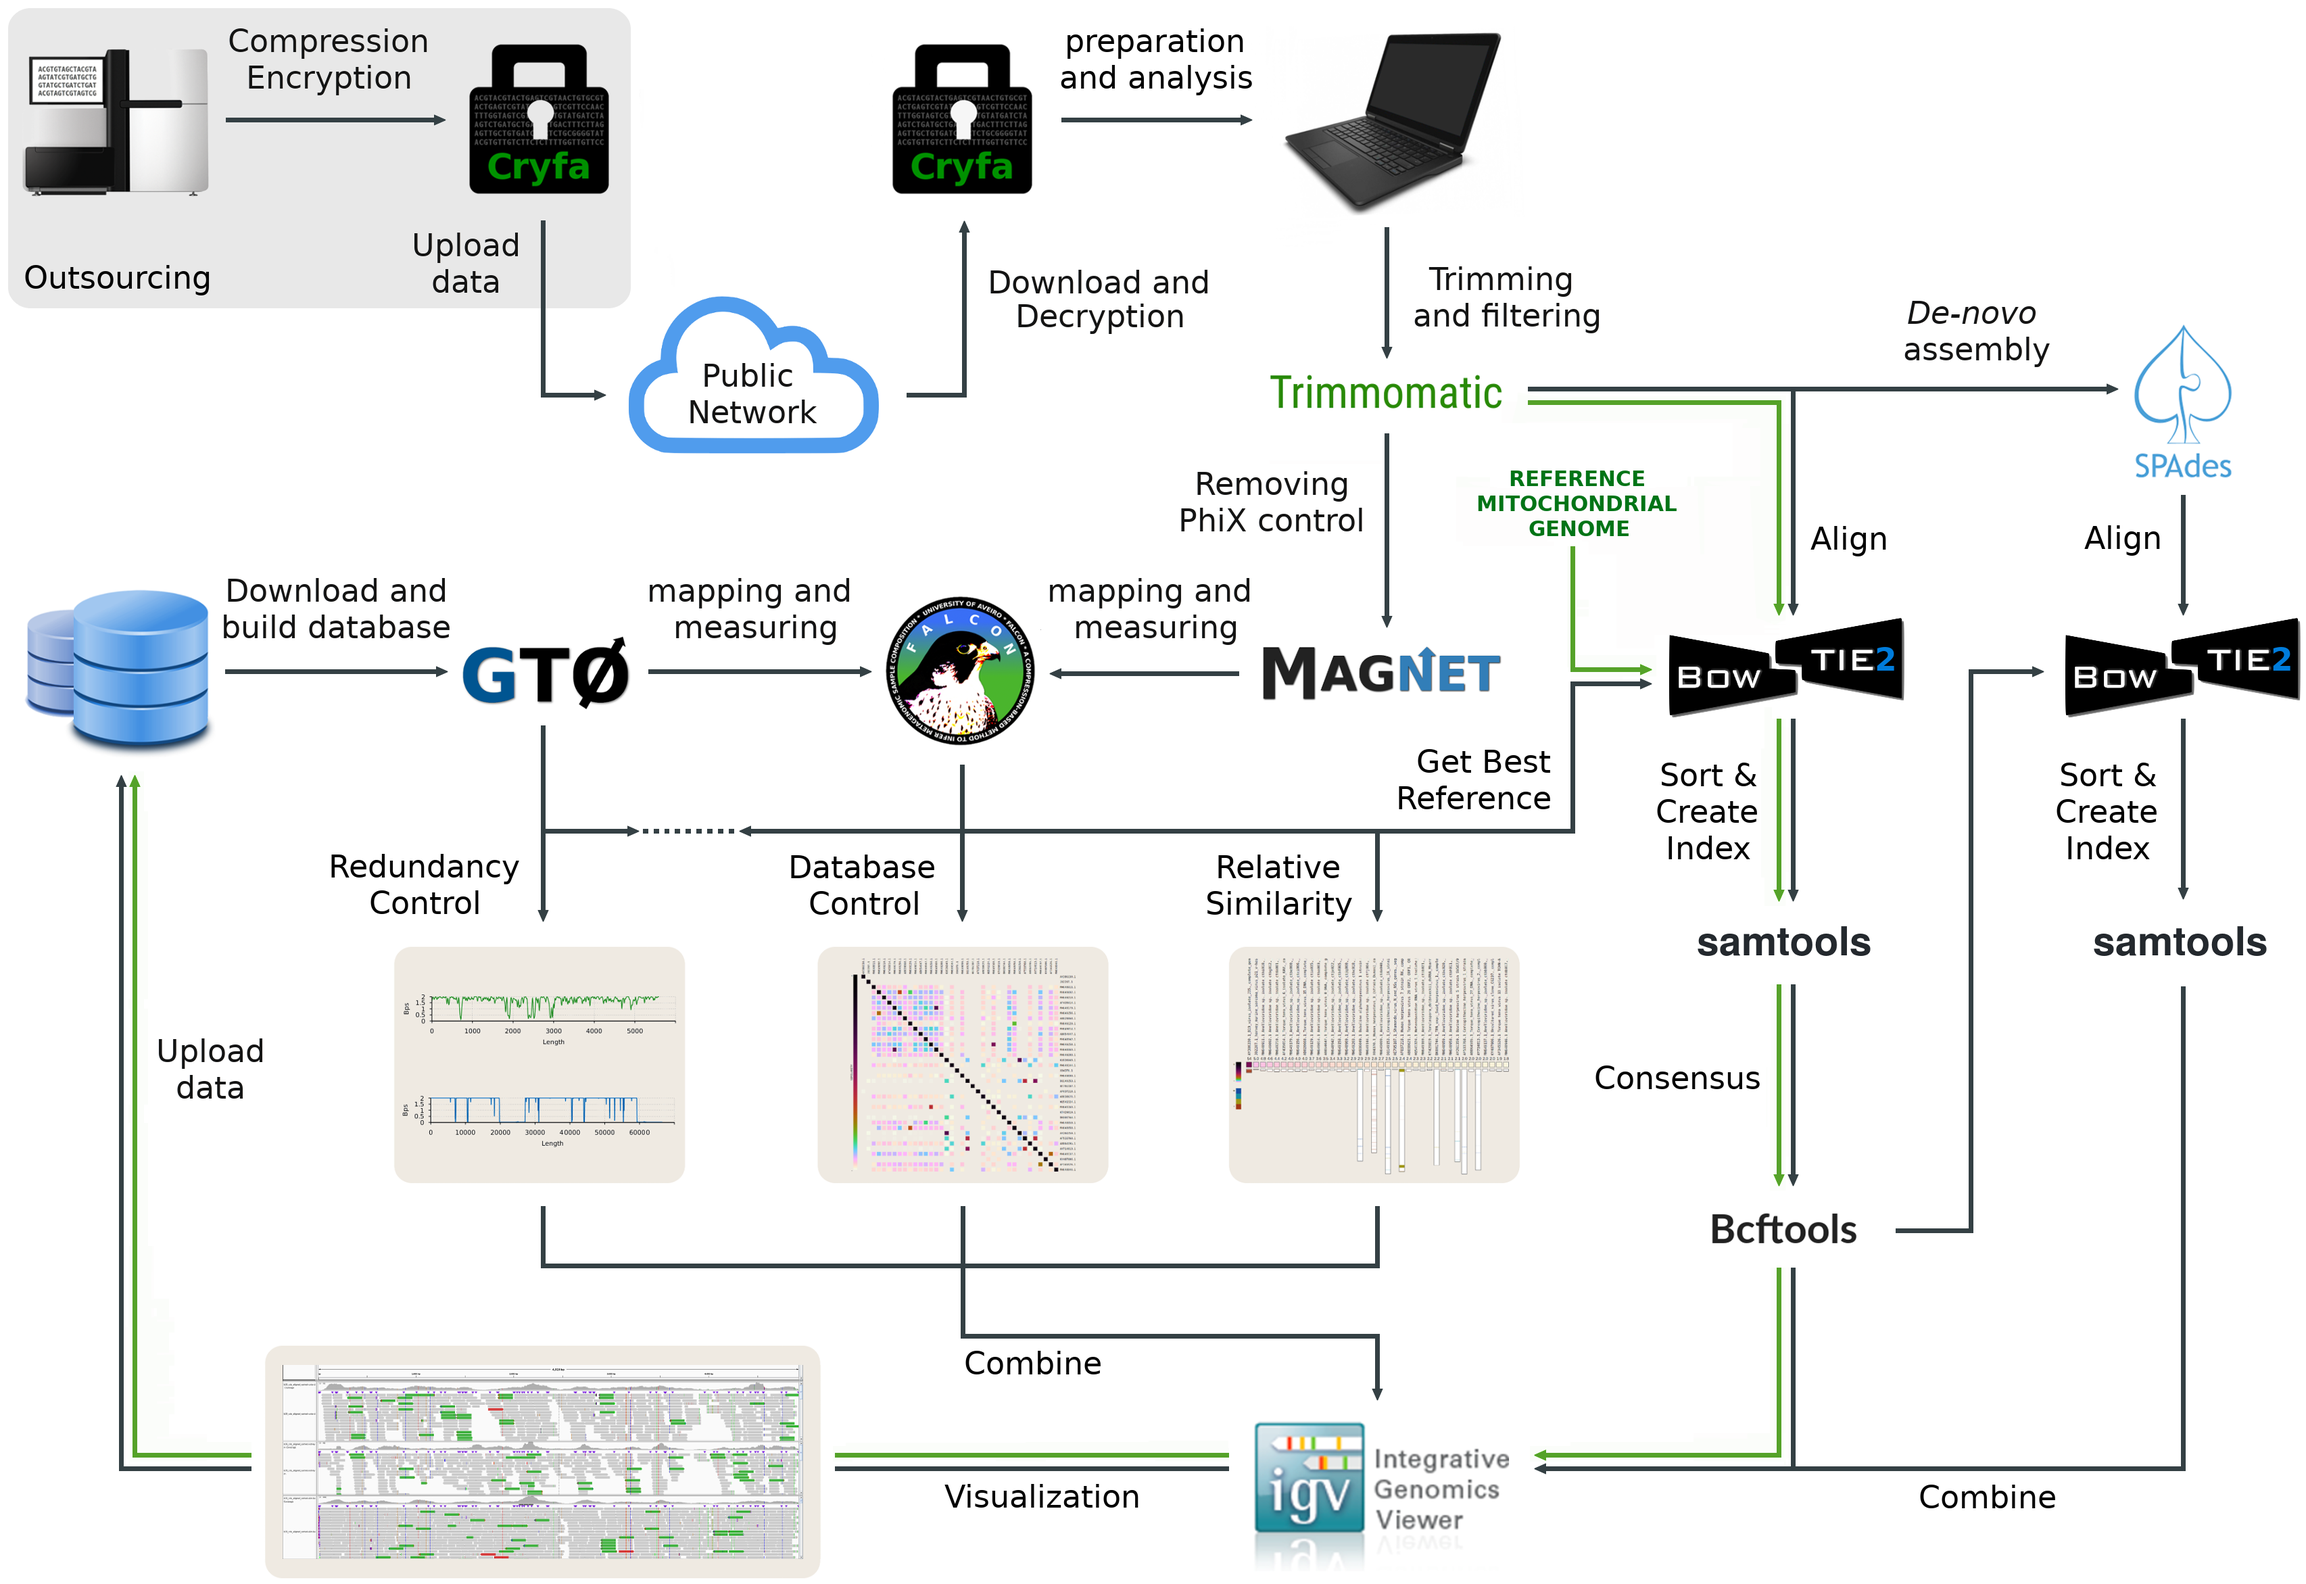
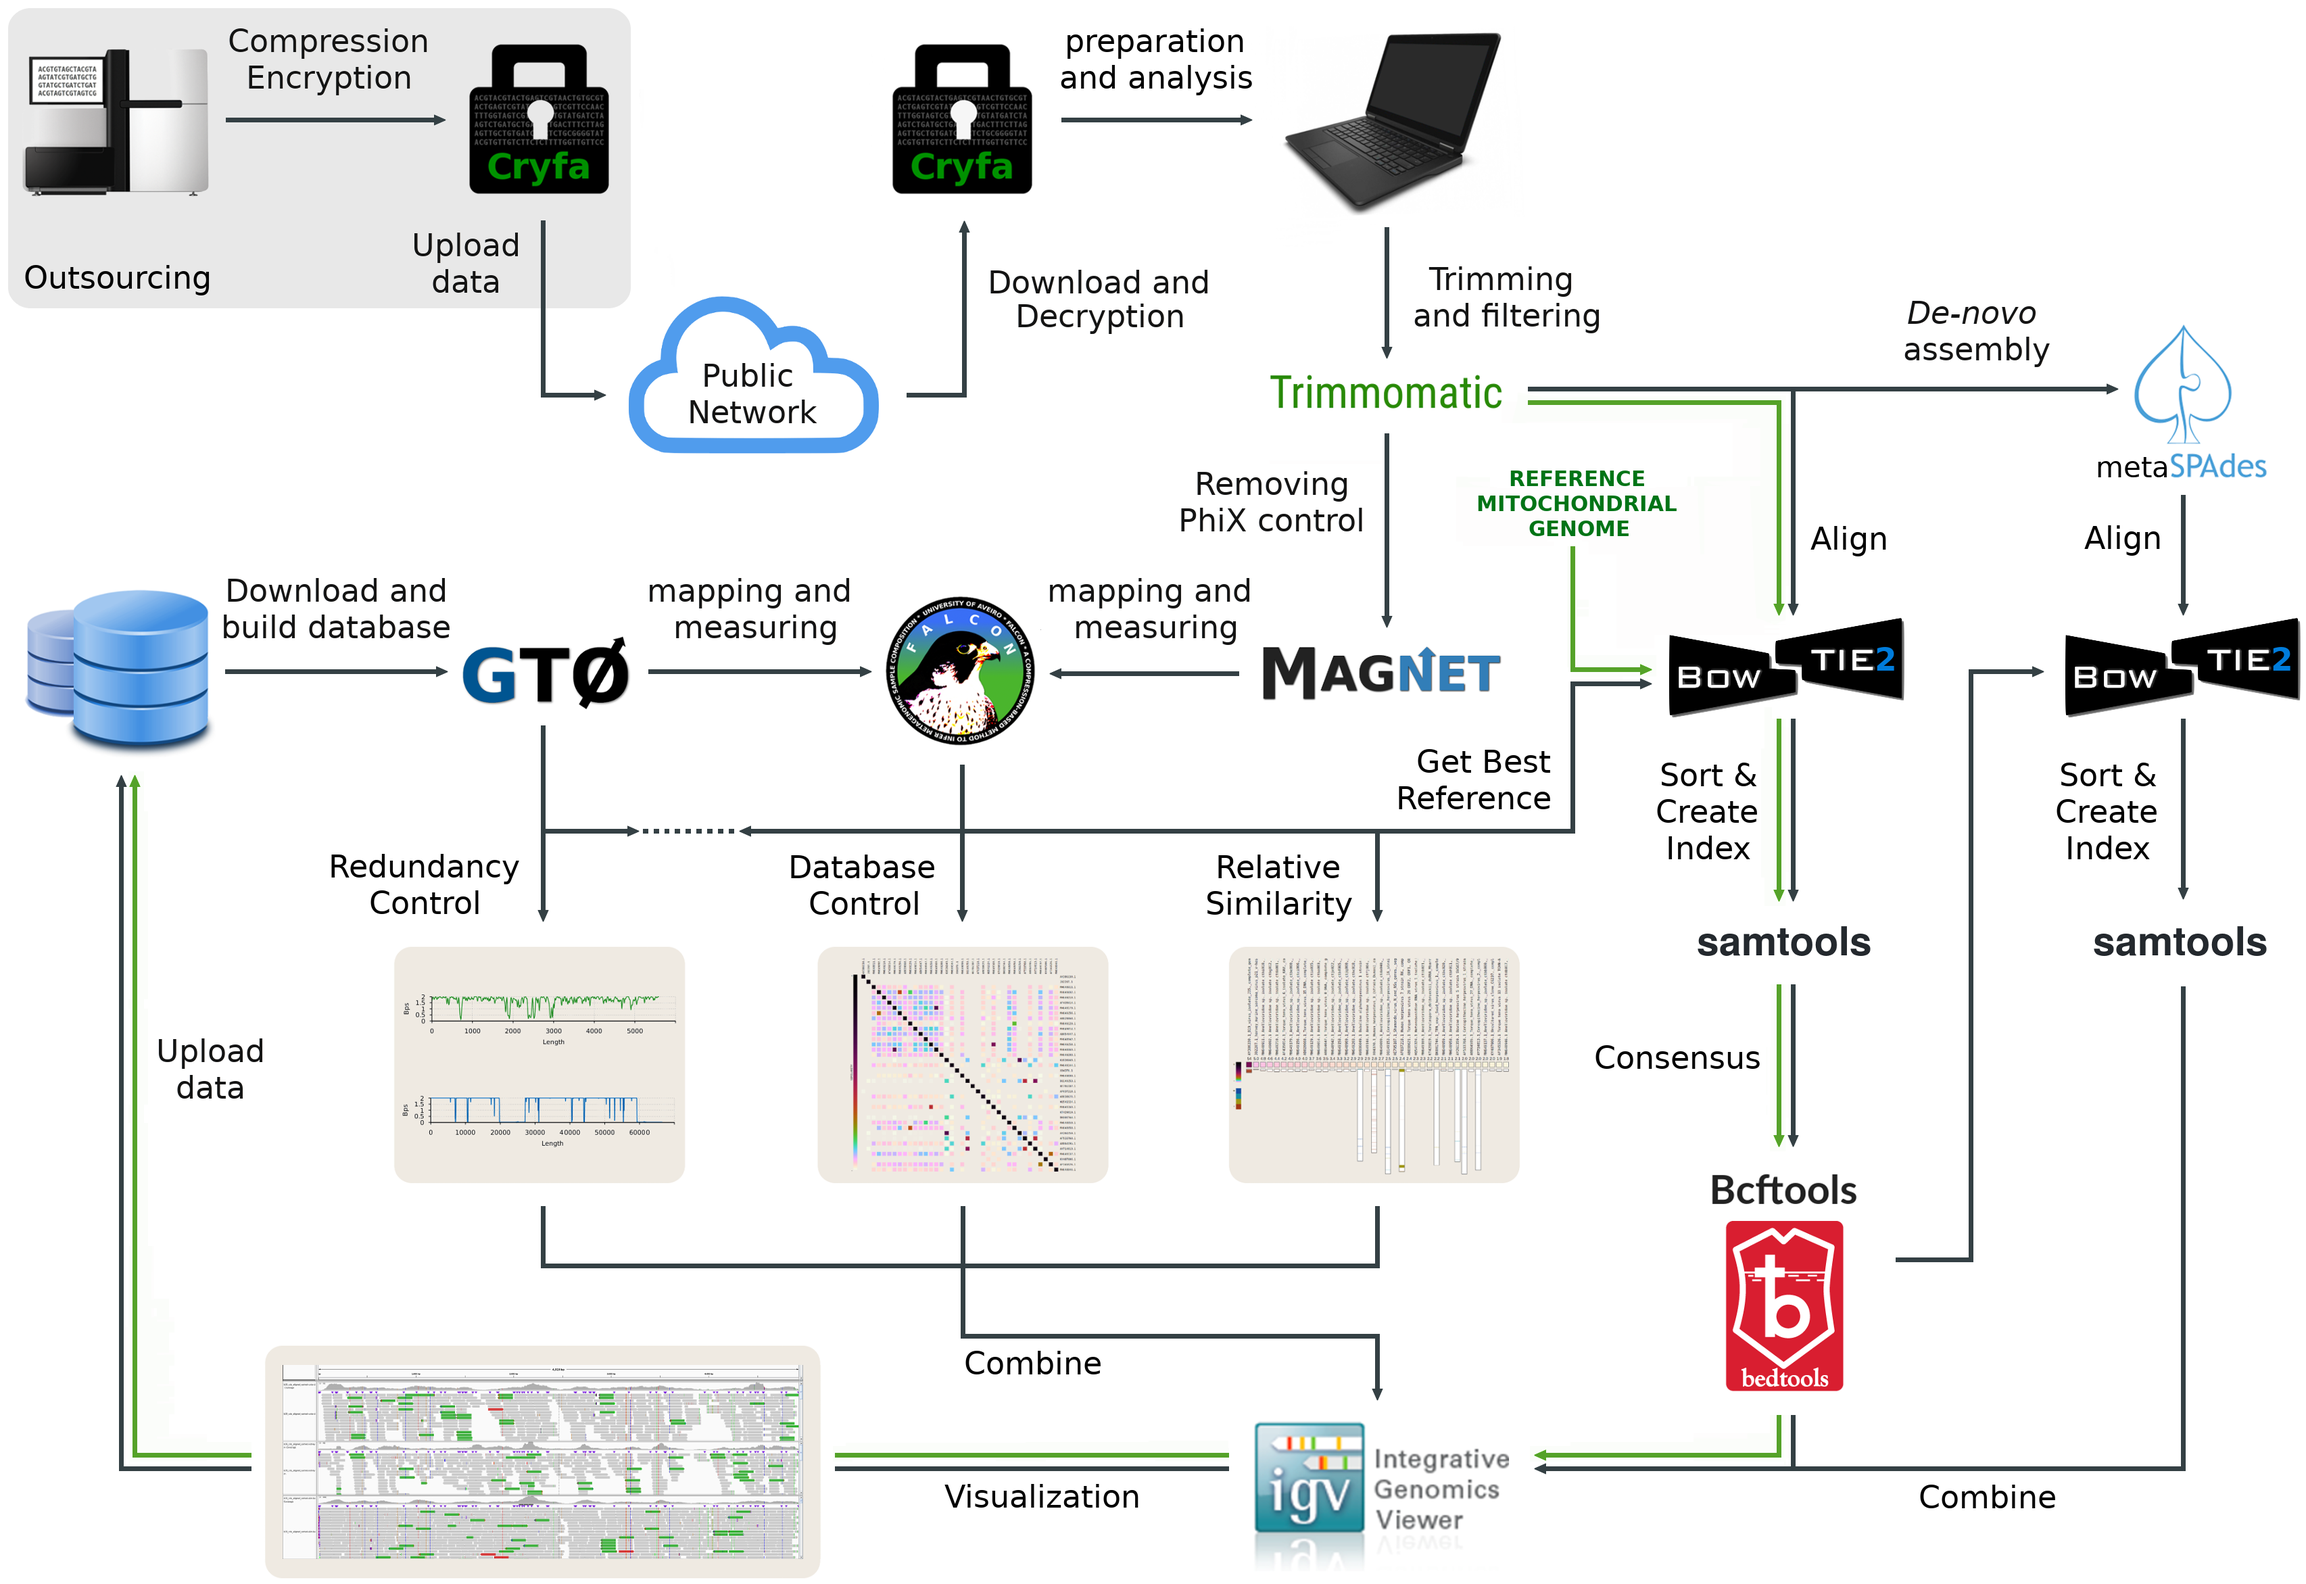
bedtools & img pipe

Changed region(s): [[0.7458, 0.7166, 0.808, 0.9035], [0.9012, 0.2804, 0.9944, 0.3116], [0.6837, 0.6543, 0.7769, 0.6854]]

diff --git a/README.md b/README.md
@@ -400,9 +400,10 @@ TRACES Pipeline uses a combination of the following tools:
 | &#x1F49A;&nbsp; MAGNET | [[https://github.com/cobilab/magnet]](https://github.com/cobilab/magnet) | [![Article](https://img.shields.io/static/v1.svg?label=View&message=Article&color=green)](https://www.eurasip.org/Proceedings/Eusipco/Eusipco2018/papers/1570439333.pdf) |
 | &#x1F49A;&nbsp; FALCON-meta | [[https://github.com/cobilab/falcon]](https://github.com/cobilab/falcon) | [![Article](https://img.shields.io/static/v1.svg?label=View&message=Article&color=green)](https://www.mdpi.com/2073-4425/9/9/445) |
 | &#x1F49A;&nbsp; Bowtie2 | [[http://bowtie-bio.sourceforge.net/bowtie2]](http://bowtie-bio.sourceforge.net/bowtie2) | [![Article](https://img.shields.io/static/v1.svg?label=View&message=Article&color=green)]( https://www.nature.com/articles/nmeth.1923) |
-| &#x1F49A;&nbsp; SPAdes | [[http://cab.spbu.ru/software/spades/]](http://cab.spbu.ru/software/spades/) | [![Article](https://img.shields.io/static/v1.svg?label=View&message=Article&color=green)](https://www.liebertpub.com/doi/full/10.1089/cmb.2012.0021) | 
+| &#x1F49A;&nbsp; metaSPAdes | [[http://cab.spbu.ru/software/meta-spades/]](http://cab.spbu.ru/software/meta-spades/) | [![Article](https://img.shields.io/static/v1.svg?label=View&message=Article&color=green)](https://www.liebertpub.com/doi/full/10.1089/cmb.2012.0021) | 
 | &#x1F49A;&nbsp; Samtools | [[http://samtools.sourceforge.net/]](http://samtools.sourceforge.net/) | [![Article](https://img.shields.io/static/v1.svg?label=View&message=Article&color=green)](https://academic.oup.com/bioinformatics/article/25/16/2078/204688) | 
 | &#x1F49A;&nbsp; Bcftools | [[http://www.htslib.org/doc/bcftools.html]](http://www.htslib.org/doc/bcftools.html) | [![Article](https://img.shields.io/static/v1.svg?label=View&message=Article&color=green)](https://academic.oup.com/bioinformatics/article/27/21/2987/217423) |
+| &#x1F49A;&nbsp; BEDtools | [[https://bedtools.readthedocs.io/en/latest/]](https://bedtools.readthedocs.io/en/latest/) | [![Article](https://img.shields.io/static/v1.svg?label=View&message=Article&color=green)](https://currentprotocols.onlinelibrary.wiley.com/doi/abs/10.1002/0471250953.bi1112s47) |
 | &#x1F49A;&nbsp; IGV | [[https://software.broadinstitute.org/software/igv/]](https://software.broadinstitute.org/software/igv/) | [![Article](https://img.shields.io/static/v1.svg?label=View&message=Article&color=green)](https://www.nature.com/articles/nbt.1754) |
 | &#x1F49A;&nbsp; mapDamage2 | [[https://ginolhac.github.io/mapDamage/]](https://ginolhac.github.io/mapDamage/) | [![Article](https://img.shields.io/static/v1.svg?label=View&message=Article&color=green)](https://academic.oup.com/bioinformatics/article/29/13/1682/184965) |
 
